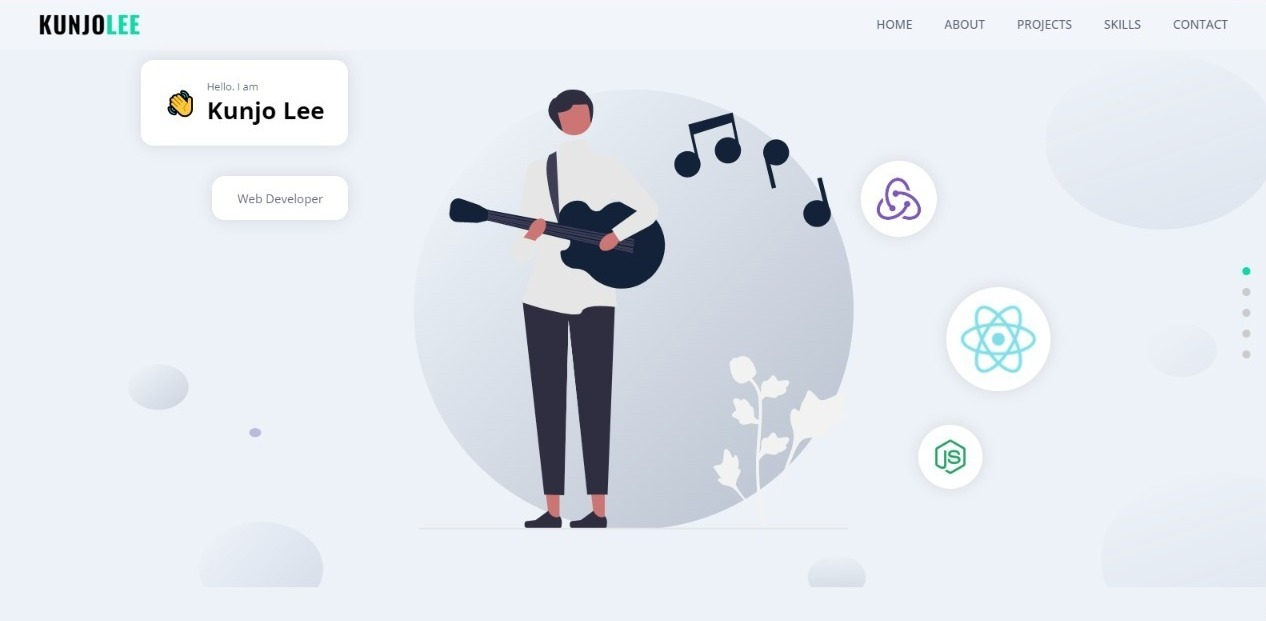
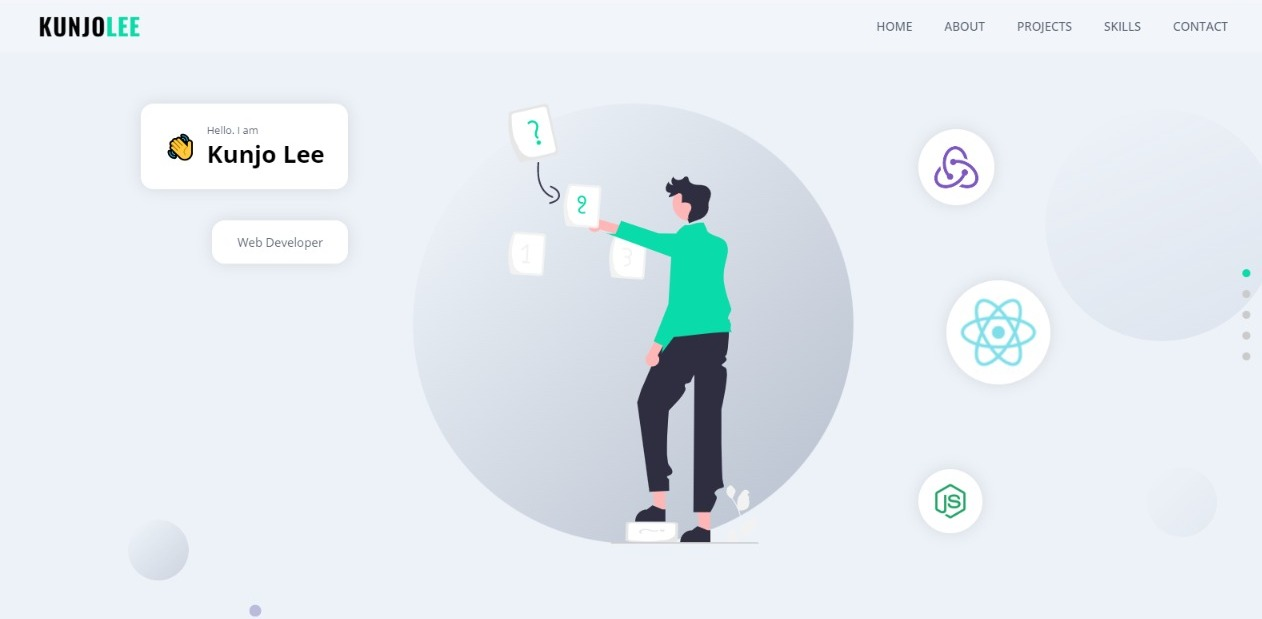
pokemon project added and initial image changed, also fixed some styles

diff --git a/styles/index.min.css b/styles/index.min.css
@@ -1,1 +1,1 @@
-:root {--font-base: 'Open Sans',sans-serif;--font-logo: 'Oswald',sans-serif;--primary-color: #edf2f8;--secondary-color: #09dbaa;--third-color: rgba(255, 255, 255, 0.51);--black-color: #030303;--gray-color: #545e6e;--white-color: #ffffff;--orange-color: rgba(252, 69, 69, 0.3);--light-blue-color: rgba(59, 232, 243, .3);--blue-color: rgba(59, 179, 243, .3);--yellow-color: rgba(247, 223, 30, .3);--purple-color: rgba(118, 74, 188, .3);--green-color: rgba(60,135, 58, .3);--light-green-color: rgba(65, 252, 170, .3);--black-transparent-color: rgba(28, 25, 25, .3);--shadow: 0 0 20px rgba(0, 0, 0, .1);--section-transition: .8s ease-in-out opacity, .8s ease-in-out visibility }* {box-sizing: border-box;scroll-behavior: smooth;padding: 0;margin: 0;}html {box-sizing: inherit;font-family: var(--font-base);background-color: var(--primary-color);scroll-behavior: smooth;}img {display: block;max-width: 100%;height: auto;}.container {width: 80%;margin: 0 auto;}.main-aside {width: 100px;display: flex;flex-direction: column;align-items: center;position: absolute;bottom: 20px;left: 0;display: none;}.main-aside__item{width: 35px;padding: 5px;margin-top: 6px;border-radius: 100%;border: rgb(200, 200, 200) solid thin;display: flex;align-items: center;justify-content: center;}.main-aside__item img {border-radius: 100%;color: var(--gray-color);}@media screen and (min-width: 1024px) {.main-aside {display: flex;}}.main-footer {width: 180px;display: none;position: absolute;bottom: 20px;right: 33px;}@media screen and (min-width: 1024px) {.main-footer {display: flex;flex-direction: column;align-items: flex-end;}}.main-footer p {text-transform: uppercase;font-size: 13px;}.fixed-navbar {display: none;position: fixed;right: 10px;top: 50%;transform: translateY(-50%);height: 150px;width: 30px;flex-direction: column;align-items: center;justify-content: center;gap: 1rem;z-index: 900;}.fixed-navbar__link {display: block;width: 10px;height: 10px;background-color: #cbcbcb;border-radius: 50%;transition: .3s ease-in-out background-color;}.fixed-navbar__link:hover {background-color: var(--secondary-color);}.fixed-navbar__link--active {background-color: var(--secondary-color);}@media screen and (min-width: 769px) {.fixed-navbar {display: flex;}}.hamburger {z-index: 1300;position: fixed;top: 0;right: 0;}@media screen and (min-width: 769px) {.hamburger {display: none;}}.main-navbar {display: flex;align-items: center;justify-content: space-between;width: 100%;padding: .7rem 1rem;backdrop-filter: blur(4px);-webkit-backdrop-filter: blur(4px);position: sticky;top: 0;z-index: 1000;background: rgba(255, 255, 255, 0.25);}@media screen and (min-width: 769px) {.main-navbar {padding: .7rem 3rem;}}.main-navbar__name {font-size: 25px;letter-spacing: 1px;color: var(--black-color);text-transform: uppercase;font-family: var(--font-logo);}.main-navbar__lastname {color: var(--secondary-color);}@media screen and (min-width: 769px) {.main-navbar__name {font-size: 30px;}}.main-navbar__links {display: none;}@media screen and (min-width: 769px) {.main-navbar__links {display: flex;gap: 1rem;}}@media screen and (min-width: 1025px) {.main-navbar__links {display: flex;gap: 2.5rem;}}.main-navbar__link, .responsive-navbar__link {list-style: none;cursor: pointer;}.main-navbar__item, .responsive-navbar__item {text-decoration: none;font-size: 20px;color: var(--gray-color);font-weight: 500;text-transform: uppercase;position: relative;transition: color .3s ease-in-out;}@media screen and (min-width: 769px) {.main-navbar__item {font-size: 15px;}}.main-navbar__item:hover, .responsive-navbar__item:hover {color: var(--secondary-color);}.main-navbar__item::before, .responsive-navbar__item::before {content: "";display: block;width: 10px;height: 10px;background-color: var(--secondary-color);position: absolute;border-radius: 50%;left: 50%;transform: translate(-50%, -15px);opacity: 0;transition: opacity .3s ease-in;}.main-navbar__item:hover::before, .responsive-navbar__item:hover::before {opacity: 1;}.responsive-navbar {position: fixed;top: 0;right: 0;width: 90%;height: 100vh;z-index: 1100;background-color: var(--white-color);padding: 2rem;background-image: url(../img/bgWhite.png);background-repeat: repeat;background-size: cover;background-position: -120px;box-shadow: 0 0 20px rgba(168, 168, 168, 0.15);transform: translate(100%);transition: .5s ease-in-out transform;}@media screen and (min-width: 769px) {.responsive-navbar {display: none;}}.responsive-navbar--active {transform: translate(0);}.responsive-navbar__links {margin-top: 3rem;}.responsive-navbar__link {margin-bottom: 3rem;}@media screen and (min-width: 1024px) {.main-header{padding-top: 4rem;}}.main-header__section {display: block;width: 100%;background-image: url(../img/bgIMG.png);background-repeat: no-repeat;background-size: cover;}@media screen and (min-width: 1024px) {.main-header__section {height: 80vh;}}@media screen and (min-width: 1200px) {.main-header__section {height: 90vh;}}.main-header__container {width: 90%;margin: 0 auto;position: relative;height: 100%;}@media screen and (min-width: 1024px) {.main-header__container {display: flex;width: 90%;height: 80vh;}}.main-header__start {display: flex;flex-direction: column;justify-content: space-between;align-items: flex-start;width: 100%;height: 200px;margin-bottom: 4rem;}.main-header__greet {display: flex;justify-content: space-evenly;width: 85%;background-color: var(--white-color);border-radius: 1rem;box-shadow: var(--shadow);padding: 1.5rem 1rem;animation-name: startAnimation;animation-duration: 1s;animation-timing-function: ease-in-out;}@media screen and (min-width: 350px) {.main-header__start {width: 250px;}.main-header__greet {width: 100%;}}@media screen and (min-width: 769px) {.main-header__start {margin-bottom: 0;}}@media screen and (min-width: 1024px) {.main-header__start {flex: .5;align-items: flex-end;}.main-header__greet {width: 259px;}}.main-header__emoji {font-size: 30px;}.main-header__info p {color: var(--gray-color);font-size: 13px;}.main-header__rol {background-color: var(--white-color);border-radius: 1rem;width: 60%;box-shadow: var(--shadow);padding: 1rem;color: var(--gray-color);font-size: 15px;animation-name: startAnimation;animation-duration: 1s;animation-timing-function: ease-in-out;}@keyframes startAnimation {0% {transform: translateY(100%) scale(0);}50% {transform: translateY(0) scale(1.2);}}@media screen and (min-width: 1024px) {.main-header__emoji {display: flex;align-items: center;justify-content: center;}.main-header__info h2 {font-size: 30px;}.main-header__rol {flex: .5;width: 170px;padding: .5rem;display: flex;align-items: center;justify-content: center;}}.main-header__profile {display: flex;align-items: center;flex-direction: column;}.main-header__profile img:first-child {object-fit: cover;animation-name: circleAnimation;animation-duration: 1s;animation-timing-function: ease-in-out;}@keyframes circleAnimation {0% {transform: scale(0);}50% {transform: scale(1.2);}}.main-header__profile img:nth-child(2) {position: absolute;left: 50%;transform: translateX(-50%);animation-name: opacityAnimation;animation-duration: 1s;animation-timing-function: ease-in-out;}@keyframes opacityAnimation {0% {opacity: 0;}50% {opacity: 1;}}@media screen and (min-width: 350px) {.main-header__profile img:first-child {object-fit: cover;height: auto;}}@media screen and (min-width: 480px) {.main-header__profile {margin-bottom: 2rem;}.main-header__profile img:first-child {width: 450px;object-fit: initial;}}@media screen and (min-width: 769px) {.main-header__profile {margin-bottom: 0;}}@media screen and (min-width: 1024px) {.main-header__profile {flex: 1;position: relative;}.main-header__profile img:first-child {height: 500px;width: 100%;}.main-header__profile img:nth-child(2) {height: 500px;}}@media screen and (min-width: 1200px) {.main-header__profile img:first-child {height: 550px;}.main-header__profile img:nth-child(2) {height: 550px;}}.main-header__skills {height: 150px;position: relative;}.main-header__skill {width: 90px;background-color: var(--white-color);border-radius: 100%;box-shadow: var(--shadow);padding: 1rem;position: absolute;animation-name: circleAnimation;animation-duration: 1s;animation-timing-function: ease-in-out;}.main-header__skill:first-child {width: 80px;}.main-header__skill:nth-child(2) {width: 110px;right: 0;}.main-header__skill:nth-child(3) {width: 70px;left: 30%;bottom: 5%;}.main-header__skill img {width: 100%;}@media screen and (min-width: 1024px) {.main-header__skills {height: 100%;flex: .5;}.main-header__skill {position: absolute;}.main-header__skill:nth-child(1) {top: 5%;left: 0;}.main-header__skill:nth-child(2) {top: 35%;left: 10%;}.main-header__skill:nth-child(3) {bottom: 15%;left: 0;}}@media screen and (min-width: 1200px) {.main-header__skill:nth-child(1) {width: 95px;}.main-header__skill:nth-child(2) {width: 130px;}.main-header__skill:nth-child(3) {width: 80px;}}.about-section {background-color: var(--third-color);padding-top: 4rem;position: relative;}@media screen and (min-width: 430px) {.about-section {opacity: 0;visibility: hidden;transition: var(--section-transition);}}.about-section__title-container {display: flex;justify-content: center;align-items: center;}.about-section__title {text-transform: capitalize;text-align: center;}.about-section__title span {color: var(--secondary-color);}@media screen and (min-width: 481px) {.about-section__title {font-size: 30px;}}@media screen and (min-width: 769px) {.about-section__title {font-size: 32px;width: 80%;}}@media screen and (min-width: 1024px) {.about-section__title {font-size: 38px;}}@media screen and (min-width: 1201px) {.about-section__title {font-size: 40px;width: 65%;}}.about-section__container {margin-top: 3rem;display: grid;grid-template-columns: repeat(auto-fit, minmax(200px, 1fr));justify-content: center;gap: 1rem;padding-bottom: 100px;}.about-section__article {transition: transform .3s ease-in-out;}.about-section__article:hover {transform: scale(1.1);}.about-section__article img {border-radius: 1rem;height: 192px;width: 100%;background-color: var(--white-color);}.about-section__text {padding: 1rem;}.about-section__text h3 {margin: 1rem 0;text-align: left;}.about-section__text p {color: var(--gray-color);text-align: left;}@media screen and (min-width: 481px) {.about-section__container {grid-template-columns: repeat(auto-fill, minmax(200px, 420px));gap: 2.5rem;}.about-section__article img {height: 287px;}}@media screen and (min-width: 769px) {.about-section__container {grid-template-columns: repeat(auto-fill, minmax(200px, 250px));}.about-section__article img {height: 192px;}}@media screen and (min-width: 1024px) {.about-section__container {margin-top: 5rem;}}.projects-section {margin-top: 4rem;position: relative;}@media screen and (min-width: 430px) {.projects-section {opacity: 0;visibility: hidden;transition: var(--section-transition);}}@media screen and (min-width: 769px) {.projects-section--category {height: 92vh;}}.projects-section__title-container {display: flex;justify-content: center;align-items: center;}.projects-section__title {text-transform: capitalize;text-align: center;}.projects-section__title span {color: var(--secondary-color);}@media screen and (min-width: 481px) {.projects-section__title {font-size: 30px;}}@media screen and (min-width: 769px) {.projects-section__title {font-size: 32px;width: 80%;}}@media screen and (min-width: 1024px) {.projects-section__title {font-size: 38px;}}@media screen and (min-width: 1201px) {.projects-section__title {font-size: 40px;width: 65%;}}.projects-section__categories {display: flex;justify-content: center;flex-wrap: wrap;gap: 1rem;margin: 3rem auto;}.projects-section__category {padding: .5rem .8rem;background-color: var(--white-color);font-weight: 700;border-radius: .5rem;border: none;outline: none;box-shadow: var(--shadow);transition: color .2s ease-in-out;cursor: pointer;}.projects-section__category:hover {color: var(--secondary-color);}.projects-section__category:active {transform: scale(.9);}.projects-section__container {display: grid;grid-template-columns: repeat(auto-fit, minmax(200px, 1fr));justify-content: center;gap: 1rem;padding-bottom: 100px;}.projects-section__article {padding: 1rem;border-radius: 1rem;background-color: var(--white-color);box-shadow: var(--shadow);}.projects-section__view-container {position: absolute;display: flex;width: 50%;justify-content: space-between;top: 50%;left: 50%;transform: translate(-50%, -50%);}.projects-section__view {display: flex;justify-content: center;align-items: center;border: 2px solid;padding: .3rem;width: 45px;height: 45px;border-radius: 50%;background-color: rgba(0, 0, 0, .7);border: none;opacity: 0;visibility: hidden;transition: opacity .3s ease-in-out , visibility .3s ease-in-out;cursor: pointer;}.projects-section__view img {width: 20px;height: 20px;object-fit: contain;}.projects-section__image {position: relative;}.projects-section__image:hover .projects-section__view {opacity: 1;visibility: visible;}.projects-section__view:hover {background-color: rgba(0, 0, 0, .5);}.projects-section__type{display: block;padding: .5rem .5rem 0;border-top-right-radius: 1rem;border-top-left-radius: 1rem;background-color: var(--white-color);position: absolute;left: 50%;bottom: 0;transform: translateX(-50%);}.projects-section__image-item {height: 192px;object-fit: cover;border-radius: 1rem;}.projects-section__information {text-align: center;}.projects-section__information h3 {margin: 1.2rem 0;text-transform: capitalize;}.projects-section__information p {color: var(--gray-color);text-align: left;}@media screen and (min-width: 481px) {.projects-section__container {grid-template-columns: repeat(auto-fit, minmax(200px, 450px));gap: 2rem;}.projects-section__image {height: 100%;}}@media screen and (min-width: 769px) {.projects-section__container {grid-template-columns: repeat(auto-fit, minmax(200px, 300px));}}@media screen and (min-width: 1024px) {.projects-section__container {padding-bottom: 100px;}}.skills-section {padding: 4rem 0 0;background-color: var(--third-color);position: relative;}@media screen and (min-width: 430px) {.skills-section {opacity: 0;visibility: hidden;transition: var(--section-transition);}}@media screen and (min-width: 1200px) {.skills-section {height: 100vh;}}.skills-section__title-container {display: flex;justify-content: center;align-items: center;}.skills-section__title {text-transform: capitalize;text-align: center;}.skills-section__title span {color: var(--secondary-color);}@media screen and (min-width: 481px) {.skills-section__title {font-size: 30px;}}@media screen and (min-width: 769px) {.skills-section__title {font-size: 32px;width: 80%;}}@media screen and (min-width: 1024px) {.skills-section__title {font-size: 38px;}}@media screen and (min-width: 1201px) {.skills-section__title {font-size: 40px;width: 65%;}}.skills-section__content {margin: 1rem 0 3rem;padding-bottom: 6rem;}.skills-section__container {display: grid;grid-template-columns: repeat(auto-fit, minmax(100px, 130px));justify-content: center;gap: 2rem;width: 70%;margin: 0 auto;}.skills-section__article {display: flex;flex-direction: column;align-items: center;gap: 1rem;}.skills-section__image {box-shadow: var(--shadow);border-radius: 50%;padding: 1.5rem;display: flex;justify-content: center;align-items: center;}.skills-section__image img{width: 82px;height: 82px;}.skills-section__image--orange {background-color: var(--orange-color);}.skills-section__image--light-blue {background-color: var(--light-blue-color);}.skills-section__image--blue {background-color: var(--blue-color);}.skills-section__image--yellow {background-color: var(--yellow-color);}.skills-section__image--purple {background-color: var(--purple-color);}.skills-section__image--green {background-color: var(--green-color);}.skills-section__image--light-green {background-color: var(--light-green-color);}.skills-section__image--black {background-color: var(--black-transparent-color);}.skills-section__text {color: var(--gray-color);}.contact-section {margin-top: 4rem;position: relative;}@media screen and (min-width: 430px) {.contact-section {opacity: 0;visibility: hidden;transition: var(--section-transition);}}.contact-section__container {width: 80%;margin: 0 auto;}@media screen and (min-width: 1025px) {.contact-section__container {width: 70%;}}.contact-section__title-container {display: flex;justify-content: center;align-items: center;}.contact-section__title {text-transform: capitalize;text-align: center;}.contact-section__title span {color: var(--secondary-color);}@media screen and (min-width: 481px) {.contact-section__title {font-size: 30px;}}@media screen and (min-width: 769px) {.contact-section__title {font-size: 32px;width: 80%;}}@media screen and (min-width: 1024px) {.contact-section__title {font-size: 38px;}}@media screen and (min-width: 1201px) {.contact-section__title {font-size: 40px;width: 65%;}}.contact-section__info-container {display: flex;flex-direction: column;gap: 1rem;margin: 3rem 0;}.contact-section__info {display: flex;align-items: center;gap: 5px;padding: .5rem;background-color: #f4fefa;border-radius: 1rem;}.contact-section__info-image {width: 50px;}.contact-section__info-text {color: var(--gray-color);}@media screen and (min-width: 769px) {.contact-section__info-container {flex-direction: row;justify-content: center;width: 80%;margin-right: auto;margin-left: auto;}.contact-section__info {width: 100%;}}.contact-section__form {margin-bottom: 3rem;}.contact-section__input-container {margin-bottom: 1rem;}.contact-section__input, .contact-section__send{border: none;padding: 1rem;border-radius: .5rem;width: 100%;outline: none;color: var(--gray-color);font-size: 15px;box-shadow: var(--shadow);display: block;}.contact-section__send {width: 50%;margin: 0 auto;box-shadow: initial;background-color: var(--secondary-color);color: var(--white-color);transition: .5s ease-in-out color, .5s ease-in-out background-color;}.contact-section__send:hover {color: var(--secondary-color);background-color: var(--white-color);border: 1px solid var(--secondary-color);}.contact-section__send:active {transform: scale(.9);}.contact-section__textarea {font-family: 'Open Sans',sans-serif;color: var(--gray-color);outline: none;border: none;resize: none;padding: 1rem;width: 100%;font-size: 15px;border-radius: .5rem;box-shadow: var(--shadow);height: 180px;}.contact-section__validation {display: none;color: #ff3333;font-weight: bold;text-transform: capitalize;font-size: 20px;}.contact-section__validation--activate {display: block;}@media screen and (min-width: 481px) {.contact-section__send {width: 182px;}}.contact-section__form-response {margin: 1rem 0 0;display: flex;justify-content: center;}.contact-section__response-text, .contact-section__loader{display: none;}.contact-section__response-text {text-align: center;font-weight: bold;margin: 1.5rem;}.contact-section__response--active{display: block;}.section-active {opacity: 1;visibility: visible;}
+*,html{scroll-behavior:smooth}.main-aside,.main-footer{bottom:20px;position:absolute}.main-header__greet,.main-header__rol{animation-name:startAnimation;border-radius:1rem}:root{--font-base:'Open Sans',sans-serif;--font-logo:'Oswald',sans-serif;--primary-color:#edf2f8;--secondary-color:#09dbaa;--third-color:rgba(255, 255, 255, 0.51);--black-color:#030303;--gray-color:#545e6e;--white-color:#ffffff;--orange-color:rgba(252, 69, 69, 0.3);--light-blue-color:rgba(59, 232, 243, .3);--blue-color:rgba(59, 179, 243, .3);--yellow-color:rgba(247, 223, 30, .3);--purple-color:rgba(118, 74, 188, .3);--green-color:rgba(60,135, 58, .3);--light-green-color:rgba(65, 252, 170, .3);--black-transparent-color:rgba(28, 25, 25, .3);--shadow:0 0 20px rgba(0, 0, 0, .1);--section-transition:.8s ease-in-out opacity,.8s ease-in-out visibility}*{box-sizing:border-box;padding:0;margin:0}html{box-sizing:inherit;font-family:var(--font-base);background-color:var(--primary-color)}img{display:block;max-width:100%;height:auto}.contact-section__container,.container{width:80%;margin:0 auto}.main-aside{width:100px;flex-direction:column;align-items:center;left:0;display:none}.main-aside__item{width:35px;padding:5px;margin-top:6px;border-radius:100%;border:thin solid #c8c8c8;display:flex;align-items:center;justify-content:center}.main-aside__item img{border-radius:100%;color:var(--gray-color)}.main-footer{width:180px;display:none;right:33px}.main-footer p{text-transform:uppercase;font-size:13px}.fixed-navbar{display:none;position:fixed;right:10px;top:50%;transform:translateY(-50%);height:150px;width:30px;flex-direction:column;align-items:center;justify-content:center;gap:1rem;z-index:900}.fixed-navbar__link{display:block;width:10px;height:10px;background-color:#cbcbcb;border-radius:50%;transition:background-color .3s ease-in-out}.fixed-navbar__link--active,.fixed-navbar__link:hover{background-color:var(--secondary-color)}.hamburger{z-index:1300;position:fixed;top:0;right:0}.main-navbar{display:flex;align-items:center;justify-content:space-between;width:100%;padding:.7rem 1rem;backdrop-filter:blur(4px);-webkit-backdrop-filter:blur(4px);position:sticky;top:0;z-index:1000;background:rgba(255,255,255,.25)}.main-header__greet,.main-header__rol,.main-header__skill,.responsive-navbar{background-color:var(--white-color)}.main-navbar__name{font-size:25px;letter-spacing:1px;color:var(--black-color);text-transform:uppercase;font-family:var(--font-logo)}.main-navbar__item:hover,.main-navbar__lastname,.responsive-navbar__item:hover{color:var(--secondary-color)}.contact-section__loader,.contact-section__response-text,.main-navbar__links{display:none}@media screen and (min-width:769px){.fixed-navbar{display:flex}.hamburger{display:none}.main-navbar{padding:.7rem 3rem}.main-navbar__name{font-size:30px}.main-navbar__links{display:flex;gap:1rem}}.main-navbar__link,.responsive-navbar__link{list-style:none;cursor:pointer}.main-navbar__item,.responsive-navbar__item{text-decoration:none;font-size:20px;color:var(--gray-color);font-weight:500;text-transform:uppercase;position:relative;transition:color .3s ease-in-out}.main-navbar__item::before,.responsive-navbar__item::before{content:"";display:block;width:10px;height:10px;background-color:var(--secondary-color);position:absolute;border-radius:50%;left:50%;transform:translate(-50%,-15px);opacity:0;transition:opacity .3s ease-in}.main-navbar__item:hover::before,.responsive-navbar__item:hover::before{opacity:1}.responsive-navbar{position:fixed;top:0;right:0;width:90%;height:100vh;z-index:1100;padding:2rem;background-image:url(../img/bgWhite.png);background-repeat:repeat;background-size:cover;background-position:-120px;box-shadow:0 0 20px rgba(168,168,168,.15);transform:translate(100%);transition:transform .5s ease-in-out}.responsive-navbar--active{transform:translate(0)}.responsive-navbar__links{margin-top:3rem}.contact-section__form,.responsive-navbar__link{margin-bottom:3rem}.main-header__section{display:block;width:100%;background-image:url(../img/bgIMG.png);background-repeat:no-repeat;background-size:cover}@media screen and (min-width:1024px){.main-aside{display:flex}.main-footer{display:flex;flex-direction:column;align-items:flex-end}.main-header{padding-top:4rem}.main-header__section{height:80vh}}.main-header__container{width:90%;margin:0 auto;position:relative;height:100%}.main-header__start{display:flex;flex-direction:column;justify-content:space-between;align-items:flex-start;width:100%;height:200px;margin-bottom:4rem}.main-header__greet{display:flex;justify-content:space-evenly;width:85%;box-shadow:var(--shadow);padding:1.5rem 1rem;animation-duration:1s;animation-timing-function:ease-in-out}.main-header__emoji{font-size:30px}.main-header__info p{color:var(--gray-color);font-size:13px}.main-header__rol{width:60%;box-shadow:var(--shadow);padding:1rem;color:var(--gray-color);font-size:15px;animation-duration:1s;animation-timing-function:ease-in-out}.main-header__profile img:first-child,.main-header__skill{animation-name:circleAnimation;animation-duration:1s;animation-timing-function:ease-in-out}@keyframes startAnimation{0%{transform:translateY(100%) scale(0)}50%{transform:translateY(0) scale(1.2)}}.main-header__profile{display:flex;align-items:center;flex-direction:column}.main-header__profile img:first-child{object-fit:cover}@keyframes circleAnimation{0%{transform:scale(0)}50%{transform:scale(1.2)}}.main-header__profile img:nth-child(2){position:absolute;left:50%;transform:translateX(-50%);animation-name:opacityAnimation;animation-duration:1s;animation-timing-function:ease-in-out;height:270px}@keyframes opacityAnimation{0%{opacity:0}50%{opacity:1}}@media screen and (min-width:350px){.main-header__start{width:250px}.main-header__greet{width:100%}.main-header__profile img:first-child{object-fit:cover;height:auto}.main-header__profile img:nth-child(2){height:310px}}@media screen and (min-width:480px){.main-header__profile{margin-bottom:2rem}.main-header__profile img:first-child{width:450px;object-fit:initial}.main-header__profile img:nth-child(2){height:400px}}@media screen and (min-width:1024px){.main-header__container{display:flex;width:90%;height:80vh}.main-header__start{flex:.5;align-items:flex-end}.main-header__greet{width:259px}.main-header__emoji{display:flex;align-items:center;justify-content:center}.main-header__info h2{font-size:30px}.main-header__rol{flex:.5;width:170px;padding:.5rem;display:flex;align-items:center;justify-content:center}.main-header__profile{flex:1;position:relative}.main-header__profile img:first-child{height:500px;width:100%}.main-header__profile img:nth-child(2){height:480px}}.main-header__skills{height:150px;position:relative}.main-header__skill{width:90px;border-radius:100%;box-shadow:var(--shadow);padding:1rem;position:absolute}.main-header__skill:first-child{width:80px}.main-header__skill:nth-child(2){width:110px;right:0}.main-header__skill:nth-child(3){width:70px;left:30%;bottom:5%}.main-header__skill img{width:100%}.about-section{background-color:var(--third-color);padding-top:4rem;position:relative}.about-section__title-container,.contact-section__title-container,.projects-section__title-container,.skills-section__title-container{display:flex;justify-content:center;align-items:center}.about-section__title{text-transform:capitalize;text-align:center}.about-section__title span{color:var(--secondary-color)}@media screen and (min-width:481px){.about-section__title{font-size:30px}}@media screen and (min-width:769px){.main-navbar__item{font-size:15px}.responsive-navbar{display:none}.main-header__profile,.main-header__start{margin-bottom:0}.about-section__title{font-size:32px;width:80%}}.about-section__container{margin-top:3rem;display:grid;grid-template-columns:repeat(auto-fit,minmax(200px,1fr));justify-content:center;gap:1rem;padding-bottom:100px}.about-section__article{transition:transform .3s ease-in-out}.about-section__article:hover{transform:scale(1.1)}.contact-section__send:active,.projects-section__category:active{transform:scale(.9)}.about-section__article img{border-radius:1rem;height:192px;width:100%;background-color:var(--white-color)}.about-section__text{padding:1rem}.about-section__text h3{margin:1rem 0;text-align:left}.about-section__text p{color:var(--gray-color);text-align:left}.projects-section__category:hover,.projects-section__title span{color:var(--secondary-color)}@media screen and (min-width:481px){.about-section__container{grid-template-columns:repeat(auto-fill,minmax(200px,420px));gap:2.5rem}.about-section__article img{height:287px}.projects-section__title{font-size:30px}}.contact-section,.projects-section{margin-top:4rem;position:relative}.projects-section__title{text-transform:capitalize;text-align:center}.contact-section__info-text,.projects-section__information p,.skills-section__text{color:var(--gray-color)}@media screen and (min-width:769px){.about-section__container{grid-template-columns:repeat(auto-fill,minmax(200px,250px))}.about-section__article img{height:192px}.projects-section--category{height:92vh}.projects-section__title{font-size:32px;width:80%}}.projects-section__categories{display:flex;justify-content:center;flex-wrap:wrap;gap:1rem;margin:3rem auto}.projects-section__category{padding:.5rem .8rem;background-color:var(--white-color);font-weight:700;border-radius:.5rem;border:none;outline:0;box-shadow:var(--shadow);transition:color .2s ease-in-out;cursor:pointer}.projects-section__container{display:grid;grid-template-columns:repeat(auto-fit,minmax(200px,1fr));justify-content:center;gap:1rem;padding-bottom:100px}.projects-section__article{padding:1rem;border-radius:1rem;background-color:var(--white-color);box-shadow:var(--shadow)}.projects-section__view-container{position:absolute;display:flex;width:50%;justify-content:space-between;top:50%;left:50%;transform:translate(-50%,-50%)}.projects-section__view{display:flex;justify-content:center;align-items:center;border:2px solid;padding:.3rem;width:45px;height:45px;border-radius:50%;background-color:rgba(0,0,0,.7);border:none;opacity:0;visibility:hidden;transition:opacity .3s ease-in-out,visibility .3s ease-in-out;cursor:pointer}.projects-section__view img{width:20px;height:20px;object-fit:contain}.projects-section__image{position:relative}.projects-section__image:hover .projects-section__view,.section-active{opacity:1;visibility:visible}.projects-section__view:hover{background-color:rgba(0,0,0,.5)}.projects-section__type{display:block;padding:.5rem .5rem 0;border-top-right-radius:1rem;border-top-left-radius:1rem;background-color:var(--white-color);position:absolute;left:50%;bottom:0;transform:translateX(-50%)}.projects-section__image-item{height:192px;object-fit:cover;border-radius:1rem}.projects-section__information{text-align:center}.projects-section__information h3{margin:1.2rem 0;text-transform:capitalize}.projects-section__information p{text-align:left}.contact-section__send:hover,.contact-section__title span,.skills-section__title span{color:var(--secondary-color)}@media screen and (min-width:481px){.projects-section__container{grid-template-columns:repeat(auto-fit,minmax(200px,450px));gap:2rem}.projects-section__image{height:100%}.skills-section__title{font-size:30px}}.skills-section{padding:4rem 0 0;background-color:var(--third-color);position:relative}@media screen and (min-width:1200px){.main-header__section{height:90vh}.main-header__profile img:first-child,.main-header__profile img:nth-child(2){height:550px}.main-header__skill:first-child{width:95px}.main-header__skill:nth-child(2){width:130px}.main-header__skill:nth-child(3){width:80px}.skills-section{height:100vh}}.skills-section__title{text-transform:capitalize;text-align:center}@media screen and (min-width:769px){.projects-section__container{grid-template-columns:repeat(auto-fit,minmax(200px,300px))}.skills-section__title{font-size:32px;width:80%}}.skills-section__content{margin:1rem 0 3rem;padding-bottom:6rem}.skills-section__container{display:grid;grid-template-columns:repeat(auto-fit,minmax(100px,130px));justify-content:center;gap:2rem;width:70%;margin:0 auto}.skills-section__article{display:flex;flex-direction:column;align-items:center;gap:1rem}.skills-section__image{box-shadow:var(--shadow);border-radius:50%;padding:1.5rem;display:flex;justify-content:center;align-items:center}.skills-section__image img{width:82px;height:82px}.skills-section__image--orange{background-color:var(--orange-color)}.skills-section__image--light-blue{background-color:var(--light-blue-color)}.skills-section__image--blue{background-color:var(--blue-color)}.skills-section__image--yellow{background-color:var(--yellow-color)}.skills-section__image--purple{background-color:var(--purple-color)}.skills-section__image--green{background-color:var(--green-color)}.skills-section__image--light-green{background-color:var(--light-green-color)}.skills-section__image--black{background-color:var(--black-transparent-color)}@media screen and (min-width:430px){.about-section,.contact-section,.projects-section,.skills-section{opacity:0;visibility:hidden;transition:var(--section-transition)}}@media screen and (min-width:1025px){.main-navbar__links{display:flex;gap:2.5rem}.contact-section__container{width:70%}}.contact-section__title{text-transform:capitalize;text-align:center}@media screen and (min-width:481px){.contact-section__title{font-size:30px}}@media screen and (min-width:769px){.contact-section__title{font-size:32px;width:80%}}@media screen and (min-width:1024px){.main-header__skills{height:100%;flex:.5}.main-header__skill{position:absolute}.main-header__skill:first-child{top:5%;left:0}.main-header__skill:nth-child(2){top:35%;left:10%}.main-header__skill:nth-child(3){bottom:15%;left:0}.about-section__title,.contact-section__title,.projects-section__title,.skills-section__title{font-size:38px}.about-section__container{margin-top:5rem}.projects-section__container{padding-bottom:100px}}@media screen and (min-width:1201px){.about-section__title,.contact-section__title,.projects-section__title,.skills-section__title{font-size:40px;width:65%}}.contact-section__info-container{display:flex;flex-direction:column;gap:1rem;margin:3rem 0}.contact-section__info{display:flex;align-items:center;gap:5px;padding:.5rem;background-color:#f4fefa;border-radius:1rem}.contact-section__info-image{width:50px}@media screen and (min-width:769px){.contact-section__info-container{flex-direction:row;justify-content:center;width:80%;margin-right:auto;margin-left:auto}.contact-section__info{width:100%}}.contact-section__input-container{margin-bottom:1rem}.contact-section__input,.contact-section__send{border:none;padding:1rem;border-radius:.5rem;width:100%;outline:0;color:var(--gray-color);font-size:15px;box-shadow:var(--shadow);display:block}.contact-section__send{width:50%;margin:0 auto;box-shadow:initial;background-color:var(--secondary-color);color:var(--white-color);transition:color .5s ease-in-out,background-color .5s ease-in-out}.contact-section__send:hover{background-color:var(--white-color);border:1px solid var(--secondary-color)}.contact-section__textarea{font-family:'Open Sans',sans-serif;color:var(--gray-color);outline:0;border:none;resize:none;padding:1rem;width:100%;font-size:15px;border-radius:.5rem;box-shadow:var(--shadow);height:180px}.contact-section__validation{display:none;color:#f33;font-weight:700;text-transform:capitalize;font-size:20px}.contact-section__validation--activate{display:block}@media screen and (min-width:481px){.contact-section__send{width:182px}}.contact-section__form-response{margin:1rem 0 0;display:flex;justify-content:center}.contact-section__response-text{text-align:center;font-weight:700;margin:1.5rem}.contact-section__response--active{display:block}

diff --git a/js/globalData.min.js b/js/globalData.min.js
@@ -1,1 +1,1 @@
-export const globalProjects=[{id:1,image:"./img/MusicStore.jpg",alt:"music-store",url:"https://music-store-app.netlify.app/",github:"https://github.com/Kunjolee/music-store-app",category:"webApp",categoryText:"Web App",title:"Music Store",text:"e-commerce of instruments using React JS, Stripe JS, e-commerce JS library, Redux, Hooks and CSS"},{id:2,image:"./img/sharemeApp.jpg",alt:"shareme-app",url:"https://shareme-post.netlify.app/",github:"https://github.com/Kunjolee/shareme-app",category:"webApp",categoryText:"Web App",title:"ShareMe",text:"Web social media application, using React JS, Hooks, Tailwind CSS and Sanity studio"},{id:3,image:"./img/crudLogin.jpeg",alt:"crud-login-auth",url:"https://crud-login-auth.netlify.app/",github:"https://github.com/Kunjolee/crud-login-auth",category:"mern",categoryText:"MERN",title:"Login Crud Auth",text:"Full stack application to make a Login & CRUD"},{id:4,image:"./img/gpt3Page.jpeg",alt:"gpt3-app",url:"https://gpt3-modern-app.netlify.app/",github:"https://github.com/Kunjolee/gpt3-app ",category:"ui_ux",categoryText:"UI/UX",title:"GPT3 WEB",text:"Modern responsive design using React JS, CSS and BEM methodology"},{id:5,image:"./img/movieCard.jpg",alt:"movie-card",url:"https://kunjolee.github.io/MovieCard/",github:"https://github.com/Kunjolee/MovieCard",category:"ui_ux",categoryText:"UI/UX",title:"Movie Card",text:"Responsive modern layout about movies using HTML & CSS"},];export const globalSkills=[{id:1,skillColor:"skills-section__image--orange",image:"./img/html.png",alt:"html-skill",text:"HTML5"},{id:2,skillColor:"skills-section__image--blue",image:"./img/css.png",alt:"css-skill",text:"CSS3"},{id:3,skillColor:"skills-section__image--yellow",image:"./img/javascript.png",alt:"js-skill",text:"Javascript"},{id:4,skillColor:"skills-section__image--light-blue",image:"./img/tailwind.png",alt:"tailwind-skill",text:"Tailwind CSS"},{id:5,skillColor:"skills-section__image--light-blue",image:"./img/react.png",alt:"react-skill",text:"React JS"},{id:6,skillColor:"skills-section__image--purple",image:"./img/redux.png",alt:"redux-skill",text:"Redux JS"},{id:7,skillColor:"",image:"./img/Next.png",alt:"next-skill",text:"Next JS"},{id:8,skillColor:"skills-section__image--light-green",image:"./img/node.png",alt:"node-skill",text:"Node JS"},{id:9,skillColor:"skills-section__image--blue",image:"./img/typescript.png",alt:"ts-skill",text:"Typescript"},{id:10,skillColor:"skills-section__image--orange",image:"./img/git.png",alt:"git-skill",text:"Git"},{id:11,skillColor:"skills-section__image--light-green",image:"./img/mongodb.svg",alt:"mongo-skill",text:"MongoDB"},{id:12,skillColor:"skills-section__image--light-blue",image:"./img/MySQL.png",alt:"mysql-skill",text:"MySQL"},];export const myEmail="06791608304bb160407163e6281c7079"
+export const globalProjects=[{image:"./img/MusicStore.jpg",alt:"music-store",url:"https://music-store-app.netlify.app/",github:"https://github.com/Kunjolee/music-store-app",category:"webApp",categoryText:"Web App",title:"Music Store",text:"e-commerce application for instruments. React.js, Stripe.js, Redux, and CSS"},{image:"./img/sharemeApp.jpg",alt:"shareme-app",url:"https://shareme-post.netlify.app/",github:"https://github.com/Kunjolee/shareme-app",category:"webApp",categoryText:"Web App",title:"ShareMe",text:"Web social media application. React.js, Tailwind CSS and Sanity studio"},{image:"./img/pokemonStatic.jpg",alt:"pokemon-static",url:"https://pokemon-list-static.vercel.app/",github:"https://github.com/Kunjolee/pokemon-static",category:"webApp",categoryText:"Web App",title:"Pokemon App",text:"Pokemon App. Typescript, Next.js and NextUI"},{image:"./img/crudLogin.jpeg",alt:"crud-login-auth",url:"https://crud-login-auth.netlify.app/",github:"https://github.com/Kunjolee/crud-login-auth",category:"mern",categoryText:"MERN",title:"Login Crud Auth",text:"Full stack application to make a Login & CRUD"},{image:"./img/gpt3Page.jpeg",alt:"gpt3-app",url:"https://gpt3-modern-app.netlify.app/",github:"https://github.com/Kunjolee/gpt3-app ",category:"ui_ux",categoryText:"UI/UX",title:"GPT3 WEB",text:"Modern responsive design. React.js, CSS and BEM methodology"},{image:"./img/movieCard.jpg",alt:"movie-card",url:"https://kunjolee.github.io/MovieCard/",github:"https://github.com/Kunjolee/MovieCard",category:"ui_ux",categoryText:"UI/UX",title:"Movie Card",text:"Responsive modern layout about movies. HTML & CSS"},];export const globalSkills=[{id:1,skillColor:"skills-section__image--orange",image:"./img/html.png",alt:"html-skill",text:"HTML5"},{id:2,skillColor:"skills-section__image--blue",image:"./img/css.png",alt:"css-skill",text:"CSS3"},{id:3,skillColor:"skills-section__image--yellow",image:"./img/javascript.png",alt:"js-skill",text:"Javascript"},{id:4,skillColor:"skills-section__image--light-blue",image:"./img/tailwind.png",alt:"tailwind-skill",text:"Tailwind CSS"},{id:5,skillColor:"skills-section__image--light-blue",image:"./img/react.png",alt:"react-skill",text:"React JS"},{id:6,skillColor:"skills-section__image--purple",image:"./img/redux.png",alt:"redux-skill",text:"Redux JS"},{id:7,skillColor:"",image:"./img/Next.png",alt:"next-skill",text:"Next JS"},{id:8,skillColor:"skills-section__image--light-green",image:"./img/node.png",alt:"node-skill",text:"Node JS"},{id:9,skillColor:"skills-section__image--blue",image:"./img/typescript.png",alt:"ts-skill",text:"Typescript"},{id:10,skillColor:"skills-section__image--orange",image:"./img/git.png",alt:"git-skill",text:"Git"},{id:11,skillColor:"skills-section__image--light-green",image:"./img/mongodb.svg",alt:"mongo-skill",text:"MongoDB"},{id:12,skillColor:"skills-section__image--light-blue",image:"./img/MySQL.png",alt:"mysql-skill",text:"MySQL"},];export const myEmail="06791608304bb160407163e6281c7079"

diff --git a/js/globalData.js b/js/globalData.js
@@ -1,8 +1,7 @@
 
 export const globalProjects = [
 
-  { 
-    id: 1, 
+  {      
     image: "./img/MusicStore.jpg",
     alt: "music-store",
     url: "https://music-store-app.netlify.app/",
@@ -10,10 +9,9 @@ export const globalProjects = [
     category: "webApp",
     categoryText: "Web App",
     title: "Music Store",
-    text: "e-commerce of instruments using React JS, Stripe JS, e-commerce JS library, Redux, Hooks and CSS"
+    text: "e-commerce application for instruments. React.js, Stripe.js, Redux, and CSS"
   },  
-  {
-    id: 2,
+  {    
     image: "./img/sharemeApp.jpg",
     alt: "shareme-app",
     url: "https://shareme-post.netlify.app/",
@@ -21,10 +19,19 @@ export const globalProjects = [
     category: "webApp",
     categoryText: "Web App",
     title: "ShareMe",
-    text: "Web social media application, using React JS, Hooks, Tailwind CSS and Sanity studio"
+    text: "Web social media application. React.js, Tailwind CSS and Sanity studio"
   },
-  {
-    id: 3,
+  {    
+    image: "./img/pokemonStatic.jpg",
+    alt: "pokemon-static",
+    url: "https://pokemon-list-static.vercel.app/",
+    github: "https://github.com/Kunjolee/pokemon-static",
+    category: "webApp",
+    categoryText: "Web App",
+    title: "Pokemon App",
+    text: "Pokemon App. Typescript, Next.js and NextUI"
+  },
+  {    
     image: "./img/crudLogin.jpeg",
     alt: "crud-login-auth",
     url: "https://crud-login-auth.netlify.app/",
@@ -34,8 +41,7 @@ export const globalProjects = [
     title: "Login Crud Auth",
     text: "Full stack application to make a Login & CRUD"
   },
-  {
-    id: 4,
+  {    
     image: "./img/gpt3Page.jpeg",
     alt: "gpt3-app",
     url: "https://gpt3-modern-app.netlify.app/",
@@ -43,10 +49,9 @@ export const globalProjects = [
     category: "ui_ux",
     categoryText: "UI/UX",
     title: "GPT3 WEB",
-    text: "Modern responsive design using React JS, CSS and BEM methodology"
+    text: "Modern responsive design. React.js, CSS and BEM methodology"
   },
-  {
-    id: 5,
+  {    
     image: "./img/movieCard.jpg",
     alt: "movie-card",
     url: "https://kunjolee.github.io/MovieCard/",
@@ -54,7 +59,7 @@ export const globalProjects = [
     category: "ui_ux",
     categoryText: "UI/UX",
     title: "Movie Card",
-    text: "Responsive modern layout about movies using HTML & CSS"
+    text: "Responsive modern layout about movies. HTML & CSS"
   },
 ]
 

diff --git a/styles/index.css b/styles/index.css
@@ -470,6 +470,7 @@ img {
   display: flex;
   align-items: center;
   flex-direction: column;
+  
 }
 
 .main-header__profile img:first-child {  
@@ -497,7 +498,8 @@ img {
   transform: translateX(-50%);
   animation-name: opacityAnimation;
   animation-duration: 1s;
-  animation-timing-function: ease-in-out;
+  animation-timing-function: ease-in-out;  
+  height: 270px;
 }
 
 @keyframes opacityAnimation {
@@ -517,6 +519,10 @@ img {
   .main-header__profile img:first-child {
     object-fit: cover;
     height: auto;
+  }    
+
+  .main-header__profile img:nth-child(2) {
+    height: 310px;
   }
 }
 
@@ -528,6 +534,10 @@ img {
   .main-header__profile img:first-child {
     width: 450px;
     object-fit: initial;
+  }
+
+  .main-header__profile img:nth-child(2) {
+    height: 400px;
   }
 }
 
@@ -550,7 +560,7 @@ img {
   }
 
   .main-header__profile img:nth-child(2) {    
-    height: 500px;
+    height: 480px;
   }
 }
 

diff --git a/index.html b/index.html
@@ -121,10 +121,9 @@
           </div>
 
         </div>
-
         <div class="main-header__profile">
           <img src="./img/circle.svg" alt="circle" class="main-header__circle">
-          <img src="./img/playGuitar.svg" alt="profile">
+          <img src="./img/questions.svg" alt="profile">
         </div>
         <div class="main-header__skills">
           <div class="main-header__skill">
